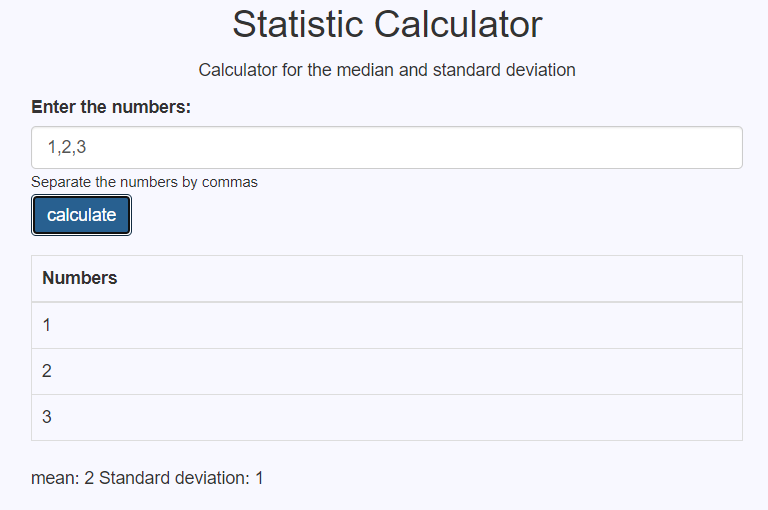
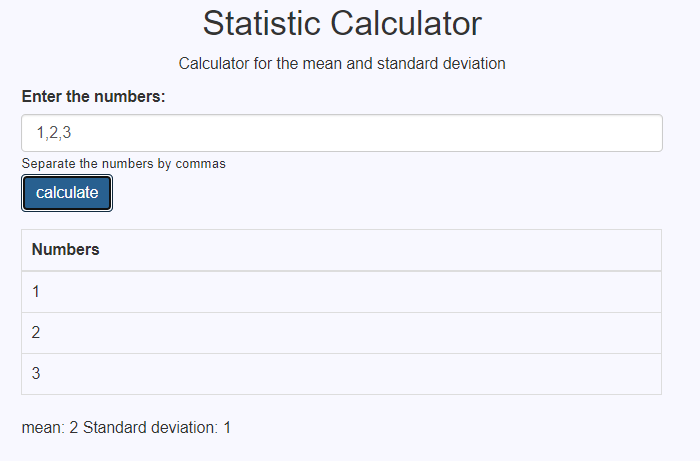
Readme

diff --git a/src/main/resources/views/index.html b/src/main/resources/views/index.html
@@ -19,7 +19,7 @@
     <div class="row">
         <div class="col" style="text-align: center">
             <h2>Statistic Calculator</h2>
-            <p>Calculator for the median and standard deviation</p>
+            <p>Calculator for the mean and standard deviation</p>
         </div>
     </div>
 

diff --git a/src/main/java/edu/escuelaing/arep/SparkWebApp.java b/src/main/java/edu/escuelaing/arep/SparkWebApp.java
@@ -3,12 +3,18 @@ package edu.escuelaing.arep;
 import com.google.gson.Gson;
 import edu.escuelaing.arep.calculator.App;
 import static spark.Spark.*;
+
+/**
+ * Web Spark app class
+ * @author Juan Camilo Angel Hernandez
+ */
 public class SparkWebApp {
 
     public static void main(String[] args) {
         port(getPort());
         staticFiles.location("/views");
         Gson gson = new Gson();
+
         get("/calculator", (request, response) -> {
             response.redirect("/index.html");
             response.status(200);

diff --git a/src/main/java/edu/escuelaing/arep/calculator/App.java b/src/main/java/edu/escuelaing/arep/calculator/App.java
@@ -93,8 +93,8 @@ public class App
 
     /**
      * Generate the json format of the mean and standard deviation
-     * @param numbers The values of 
-     * @return
+     * @param numbers The values of the numbers that the user entry
+     * @return The json format of the mean and standard deviation
      */
     public static String calculate(String numbers){
         LinkedList<Double> myLinkedList = new LinkedList<Double>();

diff --git a/README.md b/README.md
@@ -2,7 +2,7 @@
 Web application using Spark that allow calculate the mean and standard deviation of a set of n real numbers that are entered by the user through a web page. The set of the n real numbers are stored in a own linked list implementation.
 
 ![Heroku](https://pyheroku-badge.herokuapp.com/?app=arep-median-spark&style=flat)
-[![CircleCI](https://circleci.com/gh/juancamilo399/SparkWebMedian.svg?style=svg)](https://app.circleci.com/pipelines/github/juancamilo399/SparkWebMedian)
+[![CircleCI](https://circleci.com/gh/juancamilo399/SparkWebMean.svg?style=svg)](https://app.circleci.com/pipelines/github/juancamilo399/SparkWebMean)
 
 Application deployed in heroku: [here](https://arep-median-spark.herokuapp.com/)
 
